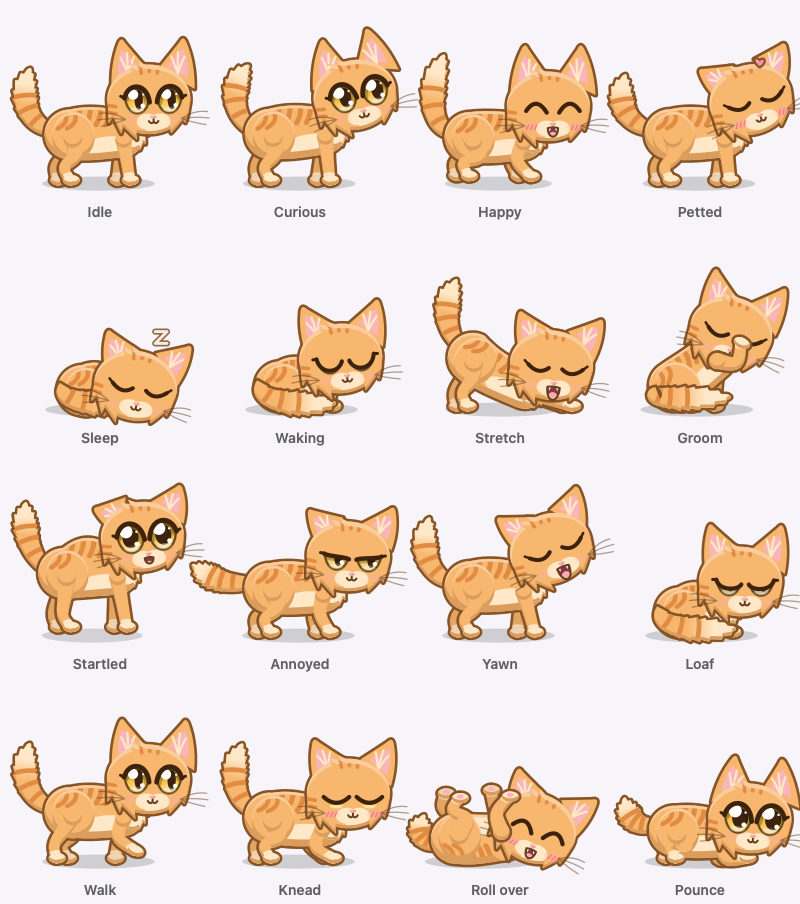
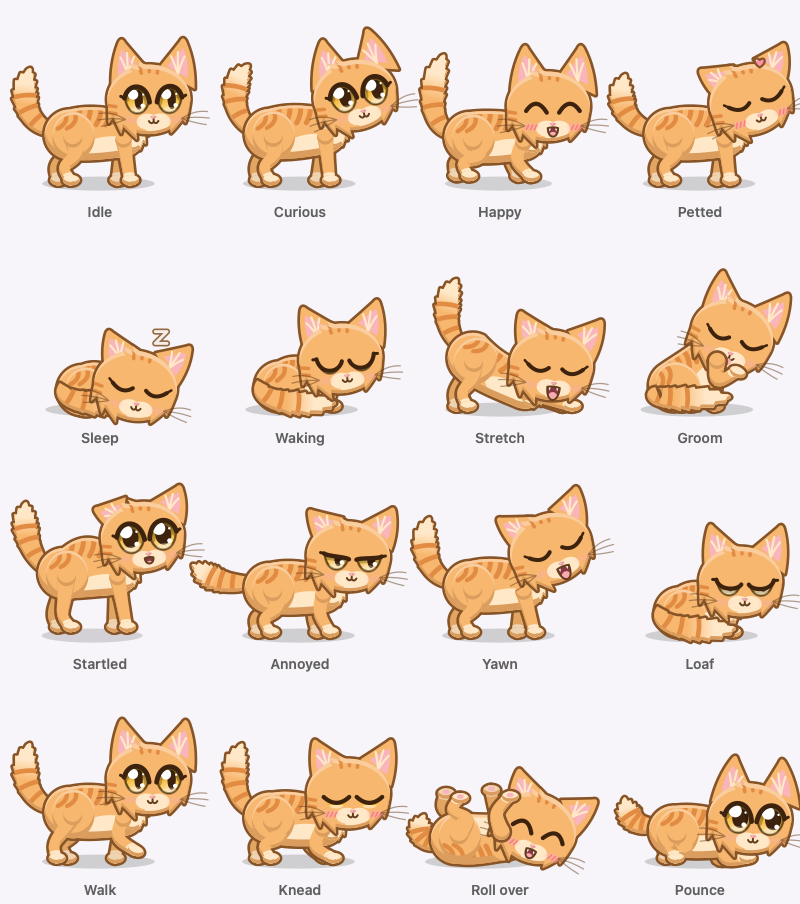
Refactor anime cat grooming animation in AnimeCatClips to improve pose transitions and visual fidelity. Introduce new properties for paw positioning in AnimeCatFactory and update visibility checks in AnimeCatRenderer. Update animation states image to reflect changes.

Changed region(s): [[0.8438, 0.2788, 1.0, 0.4336]]

diff --git a/Sources/Purrsistent/AnimeCatClips.swift b/Sources/Purrsistent/AnimeCatClips.swift
@@ -308,29 +308,34 @@ enum AnimeCatClips {
             close.lid = 0.7
             return AnimeClip([Pose(), start, wide, wide, close], durations: [0.3, 0.2, 0.3, 0.3])
         case .groom:
+            // The paw comes up under the chin and the head bows to lick it. The paw stays below
+            // the mouth: at this size a paw over the muzzle reads as a smudge across the face.
             var raise = sitting
-            raise.frontNear = CGPoint(x: 44.5, y: 22)
-            raise.head = CGPoint(x: 43, y: 32)
-            raise.headTilt = -6
-            raise.lid = 0.72
-            raise.look = CGVector(dx: 0.5, dy: -0.7)
+            raise.pawToFace = true
+            raise.frontNear = CGPoint(x: 43, y: 15.5)
+            raise.head = CGPoint(x: 43.5, y: 32)
+            raise.headTilt = -8
+            raise.lid = 0.3
+            raise.look = CGVector(dx: 0.3, dy: -0.9)
             var lick = sitting
-            lick.head = CGPoint(x: 42, y: 30.5)
-            lick.headTilt = -14
-            lick.earSpread = 8
+            lick.pawToFace = true
+            lick.head = CGPoint(x: 42.5, y: 30)
+            lick.headTilt = -18
+            lick.earSpread = 6
             lick.eyes = .closed
             lick.mouth = .tongue
-            lick.frontNear = CGPoint(x: 45.5, y: 26)
+            lick.frontNear = CGPoint(x: 43.5, y: 18)
             var lower = lick
-            lower.frontNear = CGPoint(x: 45, y: 24.5)
-            lower.head.y += 0.7
-            var wipe = lick
-            wipe.mouth = .closed
-            wipe.frontNear = CGPoint(x: 43.5, y: 29.5)
-            wipe.head = CGPoint(x: 42.5, y: 31)
-            wipe.headTilt = -24
-            wipe.earSpread = 18
-            return AnimeClip([sitting, raise, lick, lower, lick, wipe], durations: [0.45, 0.3, 0.22, 0.22, 0.4, 0.35], loopStart: 2)
+            lower.frontNear = CGPoint(x: 43.8, y: 17.2)
+            lower.head.y -= 0.6
+            lower.headTilt = -20
+            var pause = lick
+            pause.mouth = .closed
+            pause.frontNear = CGPoint(x: 44.5, y: 16.5)
+            pause.head = CGPoint(x: 43, y: 31.5)
+            pause.headTilt = -10
+            pause.earSpread = 14
+            return AnimeClip([sitting, raise, lick, lower, lick, lower, lick, pause], durations: [0.45, 0.3, 0.2, 0.2, 0.2, 0.2, 0.35, 0.4], loopStart: 2)
         case .eat:
             var chew = Pose()
             chew.shoulder.y = 19.5

diff --git a/Sources/Purrsistent/AnimeCatFactory.swift b/Sources/Purrsistent/AnimeCatFactory.swift
@@ -67,6 +67,9 @@ enum AnimeCatFactory {
         var scratching = false
         /// Front legs tucked under the chest.
         var frontTucked = false
+        /// The near front paw is held up in front of the chin or face, as when grooming, so it's
+        /// drawn over the head even while it's still low.
+        var pawToFace = false
         var tailInFront = false
         /// Lying on its back: belly and paws up.
         var upsideDown = false
@@ -503,7 +506,7 @@ enum AnimeCatFactory {
 
         /// A near paw lifted across the body would merge into its outline, so it gets its own on top.
         var frontRaised: Bool {
-            !pose.frontTucked && pose.frontNear.y > pose.shoulder.y - chestRadius * 0.5
+            !pose.frontTucked && (pose.pawToFace || pose.frontNear.y > pose.shoulder.y - chestRadius * 0.5)
         }
 
         func raisedParts(_ colors: Colors) -> [Part] {

diff --git a/Sources/Purrsistent/AnimeCatRenderer.swift b/Sources/Purrsistent/AnimeCatRenderer.swift
@@ -50,7 +50,7 @@ final class AnimeCatRenderer {
     nonisolated static func visibleChange(from a: AnimeCatFactory.RigPose, to b: AnimeCatFactory.RigPose) -> CGFloat {
         guard a.eyes == b.eyes, a.mouth == b.mouth,
               a.hindFolded == b.hindFolded, a.scratching == b.scratching, a.frontTucked == b.frontTucked,
-              a.tailInFront == b.tailInFront, a.upsideDown == b.upsideDown,
+              a.pawToFace == b.pawToFace, a.tailInFront == b.tailInFront, a.upsideDown == b.upsideDown,
               a.headTurnedBack == b.headTurnedBack, a.flipped == b.flipped, a.showShadow == b.showShadow
         else { return .infinity }
 
